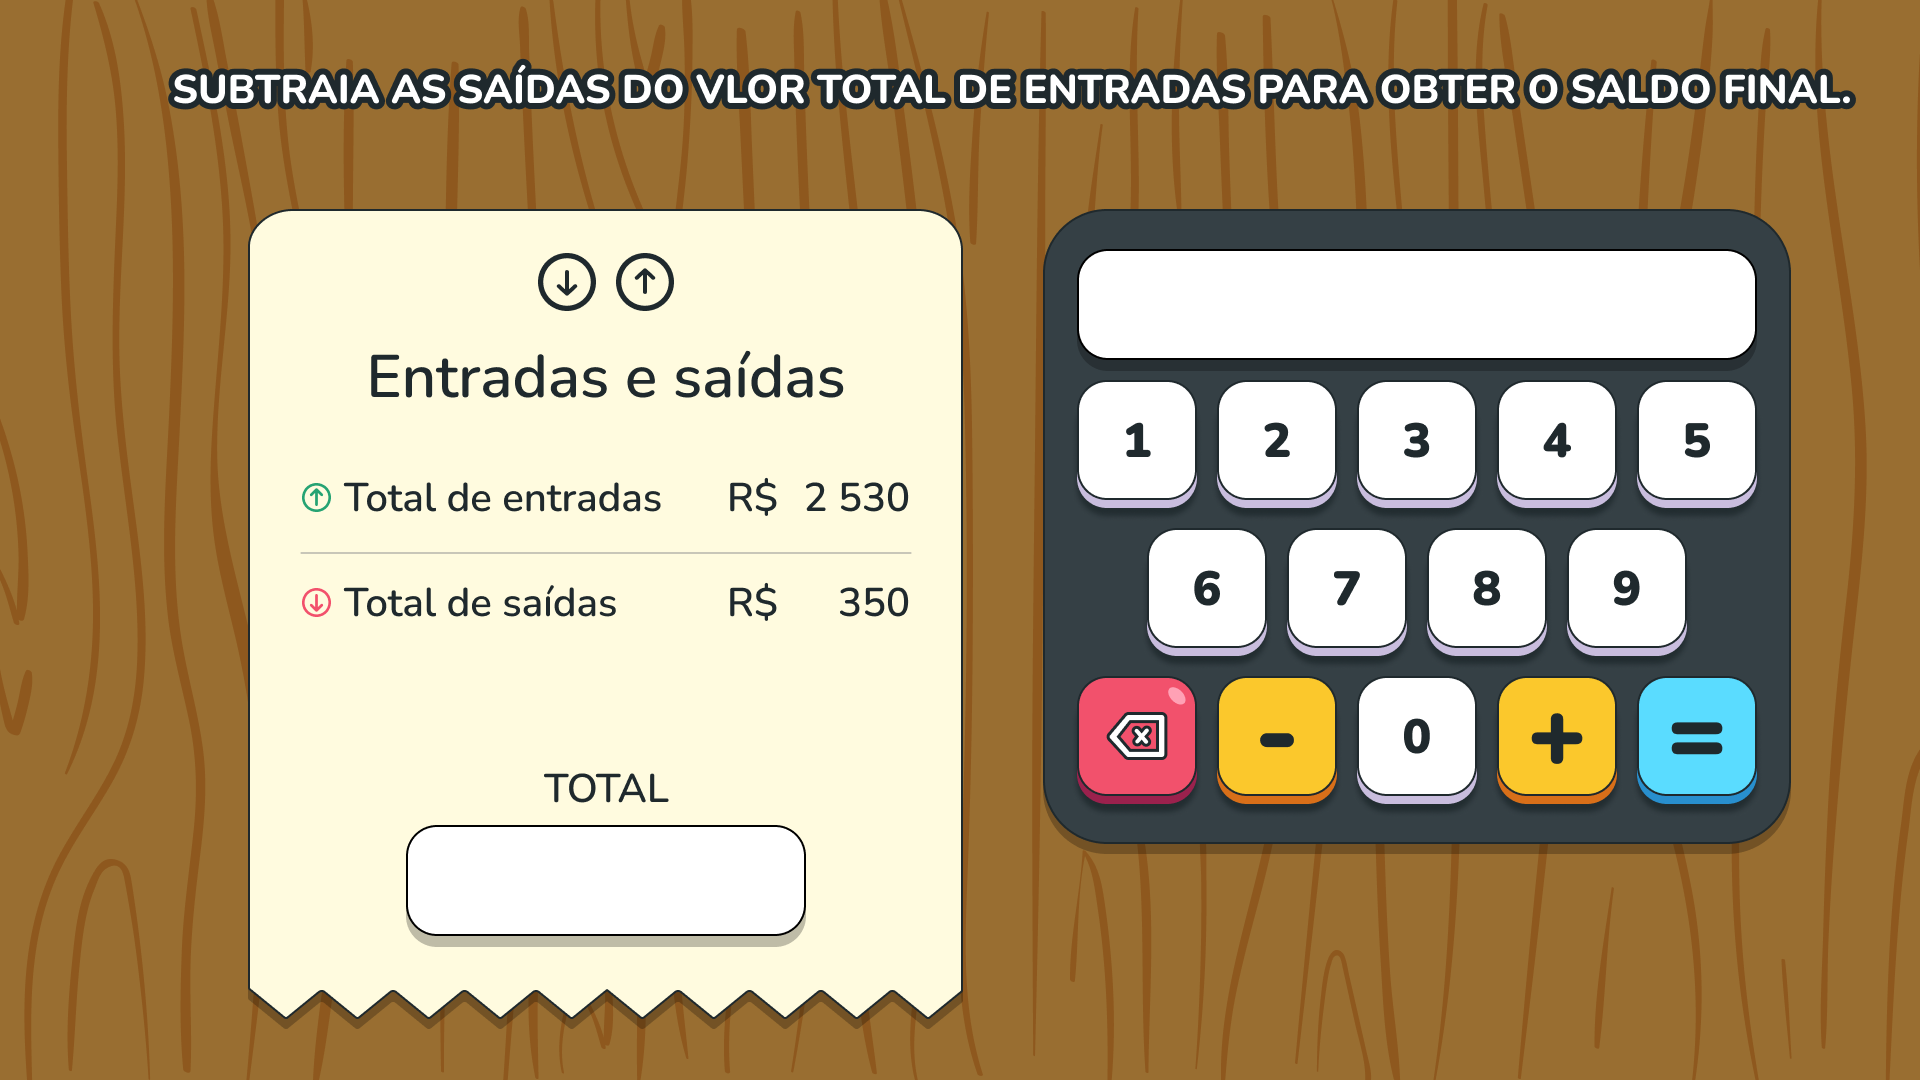
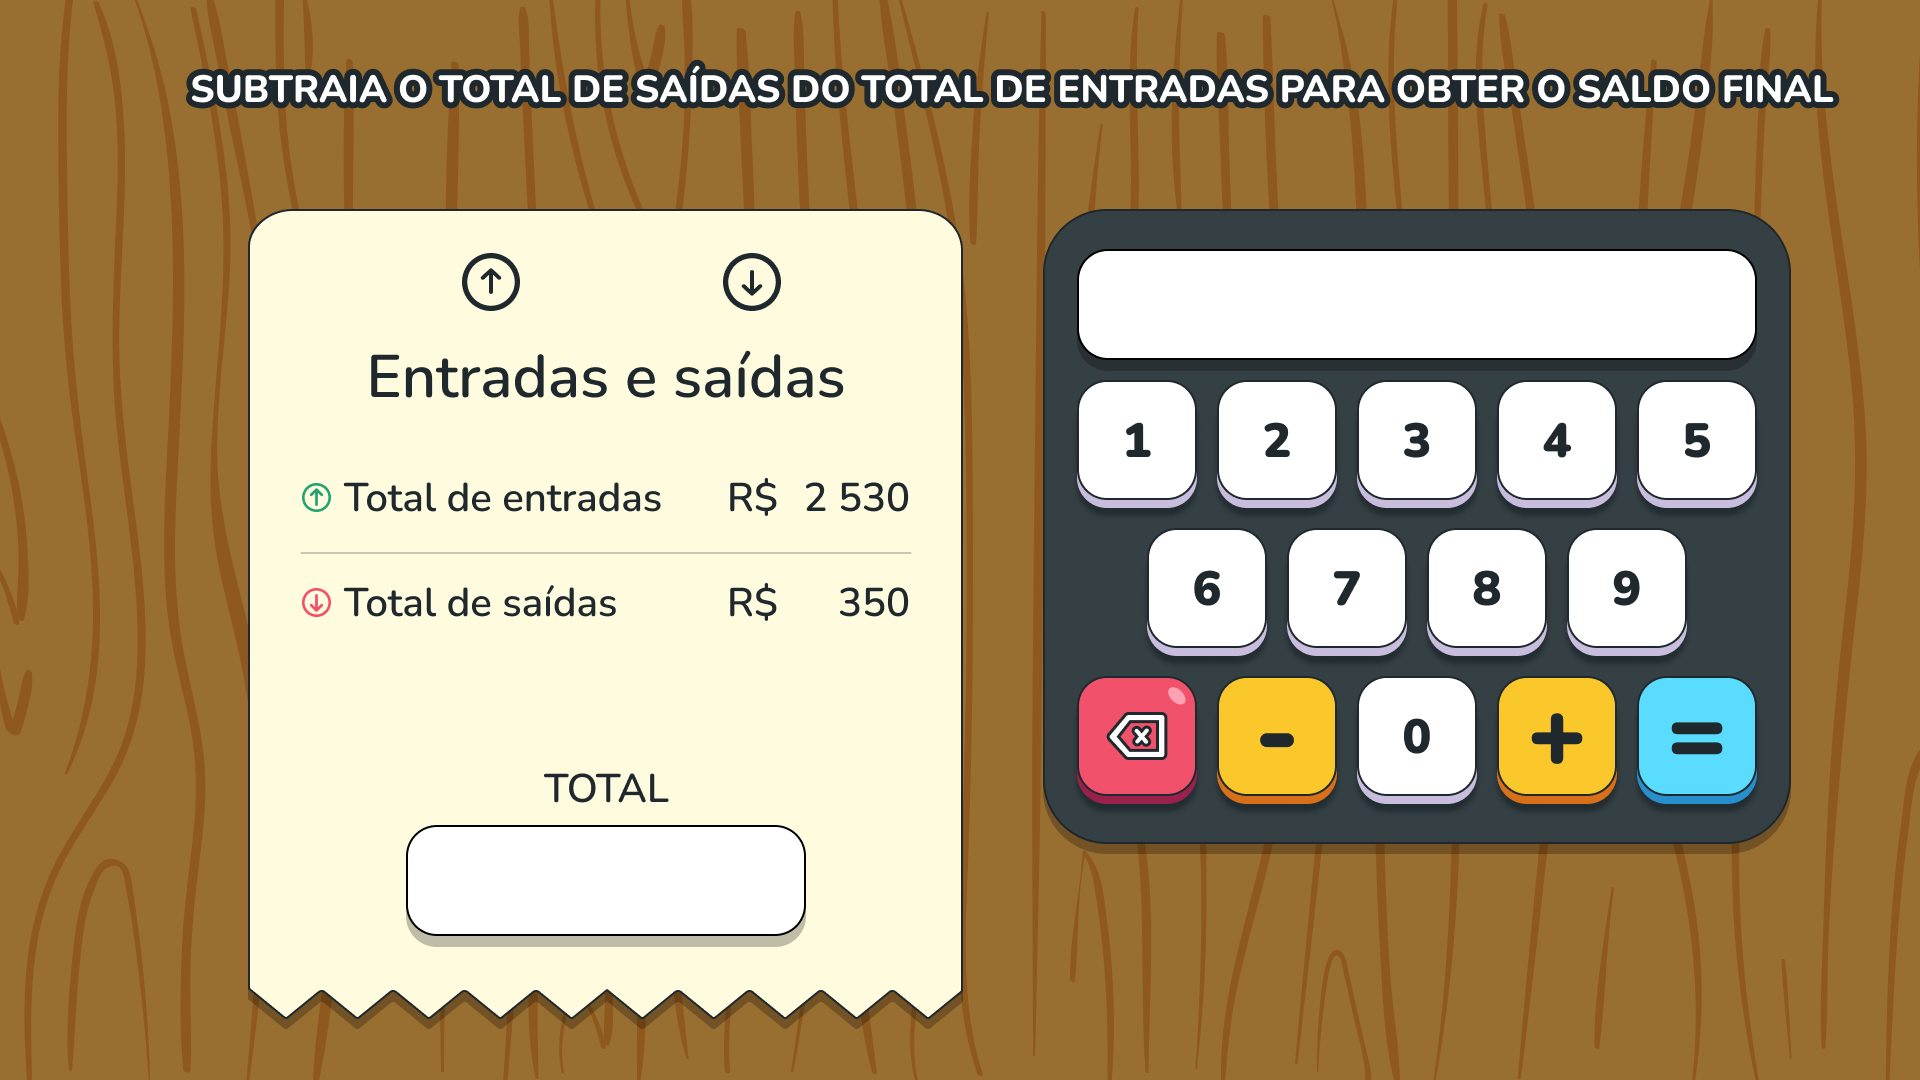
SAE26_AF71_MAT_C02_OA1 - Refinamento para validação

Changed region(s): [[0.0625, 0.0611, 0.9688, 0.1222], [0.2188, 0.2139, 0.4062, 0.3056]]

diff --git a/SAE26_AF71_MAT_C02_OA1/resources/js/library/components/Narrador.js b/SAE26_AF71_MAT_C02_OA1/resources/js/library/components/Narrador.js
@@ -4,24 +4,6 @@ import { Button } from "../components/Button.js";
 import { ColorManager } from "../managers/ColorManager.js";
 
 export class Narrador {
-  /**
-   * @param {Phaser.Scene} scene
-   * @param {string[]} legendas
-   * @param {string[]} narracoes - keys dos áudios; 1:1 com legendas
-   * @param {Object|null} colors - estilo do botão "PULAR" (se usado)
-   * @param {Function|null} onFinish - callback ao finalizar (ex.: métricas/cleanup)
-   * @param {Object} personagens - { v1, v2 } para alternar retratos
-   * @param {boolean} permitirPular
-   * @param {string} textFrameKey - ex: "textframe-Ana"
-   * @param {string|function(Object): (string|Object)|Object|null} navigateTo
-   *   - String: key da cena
-   *   - Function: (ctx) => string | { key, data?, transition? }
-   *   - Object: { key, data?, transition? }
-   *   transition: { duration?:number, moveAbove?:boolean, sleep?:boolean, allowInput?:boolean }
-   * @param {Object} hudOptions - (NOVO) repassado ao TextFrameHUD
-   *   - { prevConfig?, nextConfig?, avancarConfig? }
-   *   - Ex.: { avancarConfig: { text: "FINALIZAR" } }
-   */
   constructor(
     scene,
     legendas = [],
@@ -44,13 +26,9 @@ export class Narrador {
     this.personagens = personagens;
     this.permitirPular = permitirPular;
     this.textFrameKey = textFrameKey;
-
-    // config de navegação
     this.navigateTo = navigateTo;
 
-    // Key do SFX de clique (mesmo som do botão AVANÇAR).
     this.CLICK_SFX_KEY = "click";
-
     SoundManager.init(scene);
 
     const defaultHudOptions = {
@@ -68,7 +46,6 @@ export class Narrador {
       },
     };
 
-    // HUD no rodapé, centralizado
     this.hud = new TextFrameHUD(
       scene,
       0,
@@ -82,7 +59,6 @@ export class Narrador {
     this.hud.y = scene.scale.height - frameH - 25;
     this.hud.x = (scene.scale.width - this.hud.frame.width) / 2 - 70;
 
-    // Handlers
     this.hud.onBack(this.previous.bind(this));
     this.hud.onNext(this.next.bind(this));
     this.hud.onAvancar(() => {
@@ -91,7 +67,6 @@ export class Narrador {
       } catch (e) {
         console.warn("[Narrador] onFinish falhou:", e);
       }
-
       const target = this._resolveNextScene();
       if (target && target.key) {
         const { key, data, transition } = target;
@@ -102,7 +77,7 @@ export class Narrador {
             moveAbove: transition.moveAbove ?? false,
             sleep: transition.sleep ?? false,
             allowInput: transition.allowInput ?? true,
-            data: data,
+            data,
           });
         } else {
           this.scene.scene.start(key, data);
@@ -110,7 +85,6 @@ export class Narrador {
       }
     });
 
-    // Botão opcional "PULAR" (amarelo)
     if (this.permitirPular) {
       let pularColors = this.colors;
       if (!pularColors) {
@@ -142,25 +116,20 @@ export class Narrador {
       this.btPular.on("buttonClick", this.skip.bind(this));
     }
 
-    // Estado inicial
-    this._updateNavState();
+    this._applyUIState();
     this._playCurrent();
   }
 
-  /** Permite ajustar/definir a navegação depois de instanciar */
   setNavigateTo(navigateTo) {
     this.navigateTo = navigateTo;
     return this;
   }
 
-  /** (Opcional) Trocar o texto do botão AVANÇAR em runtime */
   setAvancarText(novoTexto = "AVANÇAR") {
-    // Se o TextFrameHUD tiver um setter específico, use-o:
     if (typeof this.hud.setAvancarText === "function") {
       this.hud.setAvancarText(novoTexto);
       return this;
     }
-    // fallback comum
     if (this.hud.avancarButton?.setText) {
       this.hud.avancarButton.setText(novoTexto);
     }
@@ -177,15 +146,11 @@ export class Narrador {
   }
 
   next() {
-    if (this.currentIndex >= this.legendas.length - 1) {
-      SoundManager.play(this.CLICK_SFX_KEY, 1.0, false);
-      this._finishSequence();
-      return;
-    }
+    if (this.currentIndex >= this.legendas.length - 1) return;
     SoundManager.play(this.CLICK_SFX_KEY, 1.0, false);
     this._stopCurrentSound();
     this.currentIndex += 1;
-    this._playCurrent();
+       this._playCurrent();
   }
 
   skip() {
@@ -195,15 +160,13 @@ export class Narrador {
 
   // --- Reprodução ---
   _playCurrent() {
-    if (this.currentIndex >= this.legendas.length) {
+    if (this.currentIndex >= (this.legendas?.length ?? 0)) {
       this._finishSequence();
       return;
     }
 
-    // Legenda
     this.hud.setText(this.legendas[this.currentIndex]);
 
-    // Personagem
     const tex =
       this.currentIndex % 2 === 1 ? this.personagens.v1 : this.personagens.v2;
     if (tex) {
@@ -212,7 +175,6 @@ export class Narrador {
       this.hud.showPersonagem(false);
     }
 
-    // Áudio
     this._stopCurrentSound();
     const key = this.narracoes?.[this.currentIndex];
     if (key) {
@@ -227,7 +189,7 @@ export class Narrador {
       this.currentSound = null;
     }
 
-    this._updateNavState();
+    this._applyUIState();
   }
 
   _onSoundComplete() {
@@ -235,14 +197,22 @@ export class Narrador {
       this.currentIndex += 1;
       this._playCurrent();
     } else {
-      this._finishSequence();
+      this._applyUIState();
     }
   }
 
   _finishSequence() {
     this._stopCurrentSound();
-    this.hud.showNav(false);
+    this.hud.showNav(true);
     this.hud.showAvancar(true);
+    this._forceHideNext();
+    const total = this.legendas?.length ?? 0;
+    if (total <= 1) {
+      this._forceHideBack();     // <-- esconder Previous quando só há 1 diálogo
+    } else {
+      this.hud.setBackEnabled?.(true);
+      this._forceShowBack();
+    }
   }
 
   _stopCurrentSound() {
@@ -253,14 +223,152 @@ export class Narrador {
     }
   }
 
-  _updateNavState() {
-    const inSequence = this.currentIndex < this.legendas.length;
-    this.hud.showNav(inSequence);
-    this.hud.showAvancar(false);
-    this.hud.setBackEnabled(this.currentIndex > 0);
+  // Helpers robustos para controlar o botão Next em qualquer implementação
+  _forceHideNext() {
+    this.hud.showNext?.(false);
+    this.hud.setNextEnabled?.(false);
+
+    const cand =
+      this.hud.nextButton ||
+      this.hud.btNext ||
+      this.hud.rightButton ||
+      this.hud.navNext ||
+      this.hud?.buttons?.next ||
+      null;
+
+    if (cand) {
+      cand.setVisible?.(false);
+      cand.disableInteractive?.();
+      cand.setActive?.(false);
+      if (cand.list?.length) {
+        cand.list.forEach(ch => {
+          ch.setVisible?.(false);
+          ch.disableInteractive?.();
+          ch.setActive?.(false);
+        });
+      }
+      cand.setAlpha?.(0);
+    }
   }
 
-  /** Resolve a próxima cena com base em this.navigateTo */
+  _forceShowNext() {
+    this.hud.showNext?.(true);
+    this.hud.setNextEnabled?.(true);
+
+    const cand =
+      this.hud.nextButton ||
+      this.hud.btNext ||
+      this.hud.rightButton ||
+      this.hud.navNext ||
+      this.hud?.buttons?.next ||
+      null;
+
+    if (cand) {
+      cand.setVisible?.(true);
+      cand.setActive?.(true);
+      cand.setAlpha?.(1);
+      cand.setInteractive?.();
+      if (cand.list?.length) {
+        cand.list.forEach(ch => {
+          ch.setVisible?.(true);
+          ch.setActive?.(true);
+          ch.setAlpha?.(1);
+          ch.setInteractive?.();
+        });
+      }
+    }
+  }
+
+  // Helpers para o botão Previous/Left
+  _forceHideBack() {
+    this.hud.showBack?.(false);
+    this.hud.setBackEnabled?.(false);
+
+    const cand =
+      this.hud.backButton ||
+      this.hud.btBack ||
+      this.hud.leftButton ||
+      this.hud.navBack ||
+      this.hud?.buttons?.prev ||
+      null;
+
+    if (cand) {
+      cand.setVisible?.(false);
+      cand.disableInteractive?.();
+      cand.setActive?.(false);
+      if (cand.list?.length) {
+        cand.list.forEach(ch => {
+          ch.setVisible?.(false);
+          ch.disableInteractive?.();
+          ch.setActive?.(false);
+        });
+      }
+      cand.setAlpha?.(0);
+    }
+  }
+
+  _forceShowBack() {
+    this.hud.showBack?.(true);
+    this.hud.setBackEnabled?.(true);
+
+    const cand =
+      this.hud.backButton ||
+      this.hud.btBack ||
+      this.hud.leftButton ||
+      this.hud.navBack ||
+      this.hud?.buttons?.prev ||
+      null;
+
+    if (cand) {
+      cand.setVisible?.(true);
+      cand.setActive?.(true);
+      cand.setAlpha?.(1);
+      cand.setInteractive?.();
+      if (cand.list?.length) {
+        cand.list.forEach(ch => {
+          ch.setVisible?.(true);
+          ch.setActive?.(true);
+          ch.setAlpha?.(1);
+          ch.setInteractive?.();
+        });
+      }
+    }
+  }
+
+  _applyUIState() {
+    const total = this.legendas?.length ?? 0;
+    const isLast = total > 0 && this.currentIndex === total - 1;
+    const hasPrev = this.currentIndex > 0;
+
+    if (total <= 1) {
+      // Uma única legenda: só CONTINUAR; esconder Next e Previous
+      this.hud.showNav(true);
+      this.hud.showAvancar(true);
+      this._forceHideNext();
+      this._forceHideBack();     // <-- esconder Previous de fato
+      return;
+    }
+
+    if (isLast) {
+      // Último diálogo (em sequências >1): CONTINUAR + LEFT; Next oculto
+      this.hud.showNav(true);
+      this.hud.showAvancar(true);
+      this._forceHideNext();
+      this._forceShowBack();
+    } else {
+      // Intermediários: LEFT + NEXT; CONTINUAR oculto
+      this.hud.showNav(true);
+      this.hud.showAvancar(false);
+      this._forceShowNext();
+      if (hasPrev) this._forceShowBack();
+      else this._forceHideBack();
+    }
+  }
+
+  _updateNavState() {
+    this._applyUIState();
+  }
+
   _resolveNextScene() {
     if (!this.navigateTo) return null;
 
@@ -276,14 +384,14 @@ export class Narrador {
       const res = this.navigateTo(ctx);
       if (!res) return null;
       if (typeof res === "string") return { key: res };
-      return res; // { key, data?, transition? }
+      return res;
     }
 
     if (typeof this.navigateTo === "string") {
       return { key: this.navigateTo };
     }
 
-    return this.navigateTo; // objeto já no formato esperado
+    return this.navigateTo;
   }
 
   destroy() {

diff --git a/SAE26_AF71_MAT_C02_OA1/resources/game/cenas/Game3.js b/SAE26_AF71_MAT_C02_OA1/resources/game/cenas/Game3.js
@@ -12,7 +12,7 @@ export class Game3 extends BaseCena {
     const background = this.add.image(0, 0, "bgGame").setOrigin(0, 0);
 
     const legendas = [
-      "COM OS DADOS ORGANIZADOS, É HORA DE \nCALCULAR O SALDO FINAL DA CONTA DA SRA.\nPAULA.",
+      "COM AS MOVIMENTAÇÕES ORGANIZADAS, É HORA DE \nCALCULAR O SALDO FINAL DA CONTA DA SRA.\nPAULA.",
       "SOME AS ENTRADAS E SUBTRAIA AS SAÍDAS PARA \nDESCOBRIR O SALDO FINAL.",
     ];
 

diff --git a/SAE26_AF71_MAT_C02_OA1/resources/game/cenas/Game11.js b/SAE26_AF71_MAT_C02_OA1/resources/game/cenas/Game11.js
@@ -12,7 +12,7 @@ export class Game11 extends BaseCena {
     const background = this.add.image(0, 0, "bgGame").setOrigin(0, 0);
 
     const legendas = [
-      "SOME OS VALORES DOS TRÊS SERVIÇOS PARA \nDESCOBRIR QUANDO SERÁ DEPOSITADO NA CONTA \nDA SRA. PAULA.",
+      "SOME OS VALORES DOS TRÊS SERVIÇOS PARA \nDESCOBRIR QUANTO SERÁ DEPOSITADO NA CONTA \nDA SRA. PAULA.",
     ];
 
     const narracoes = [];
